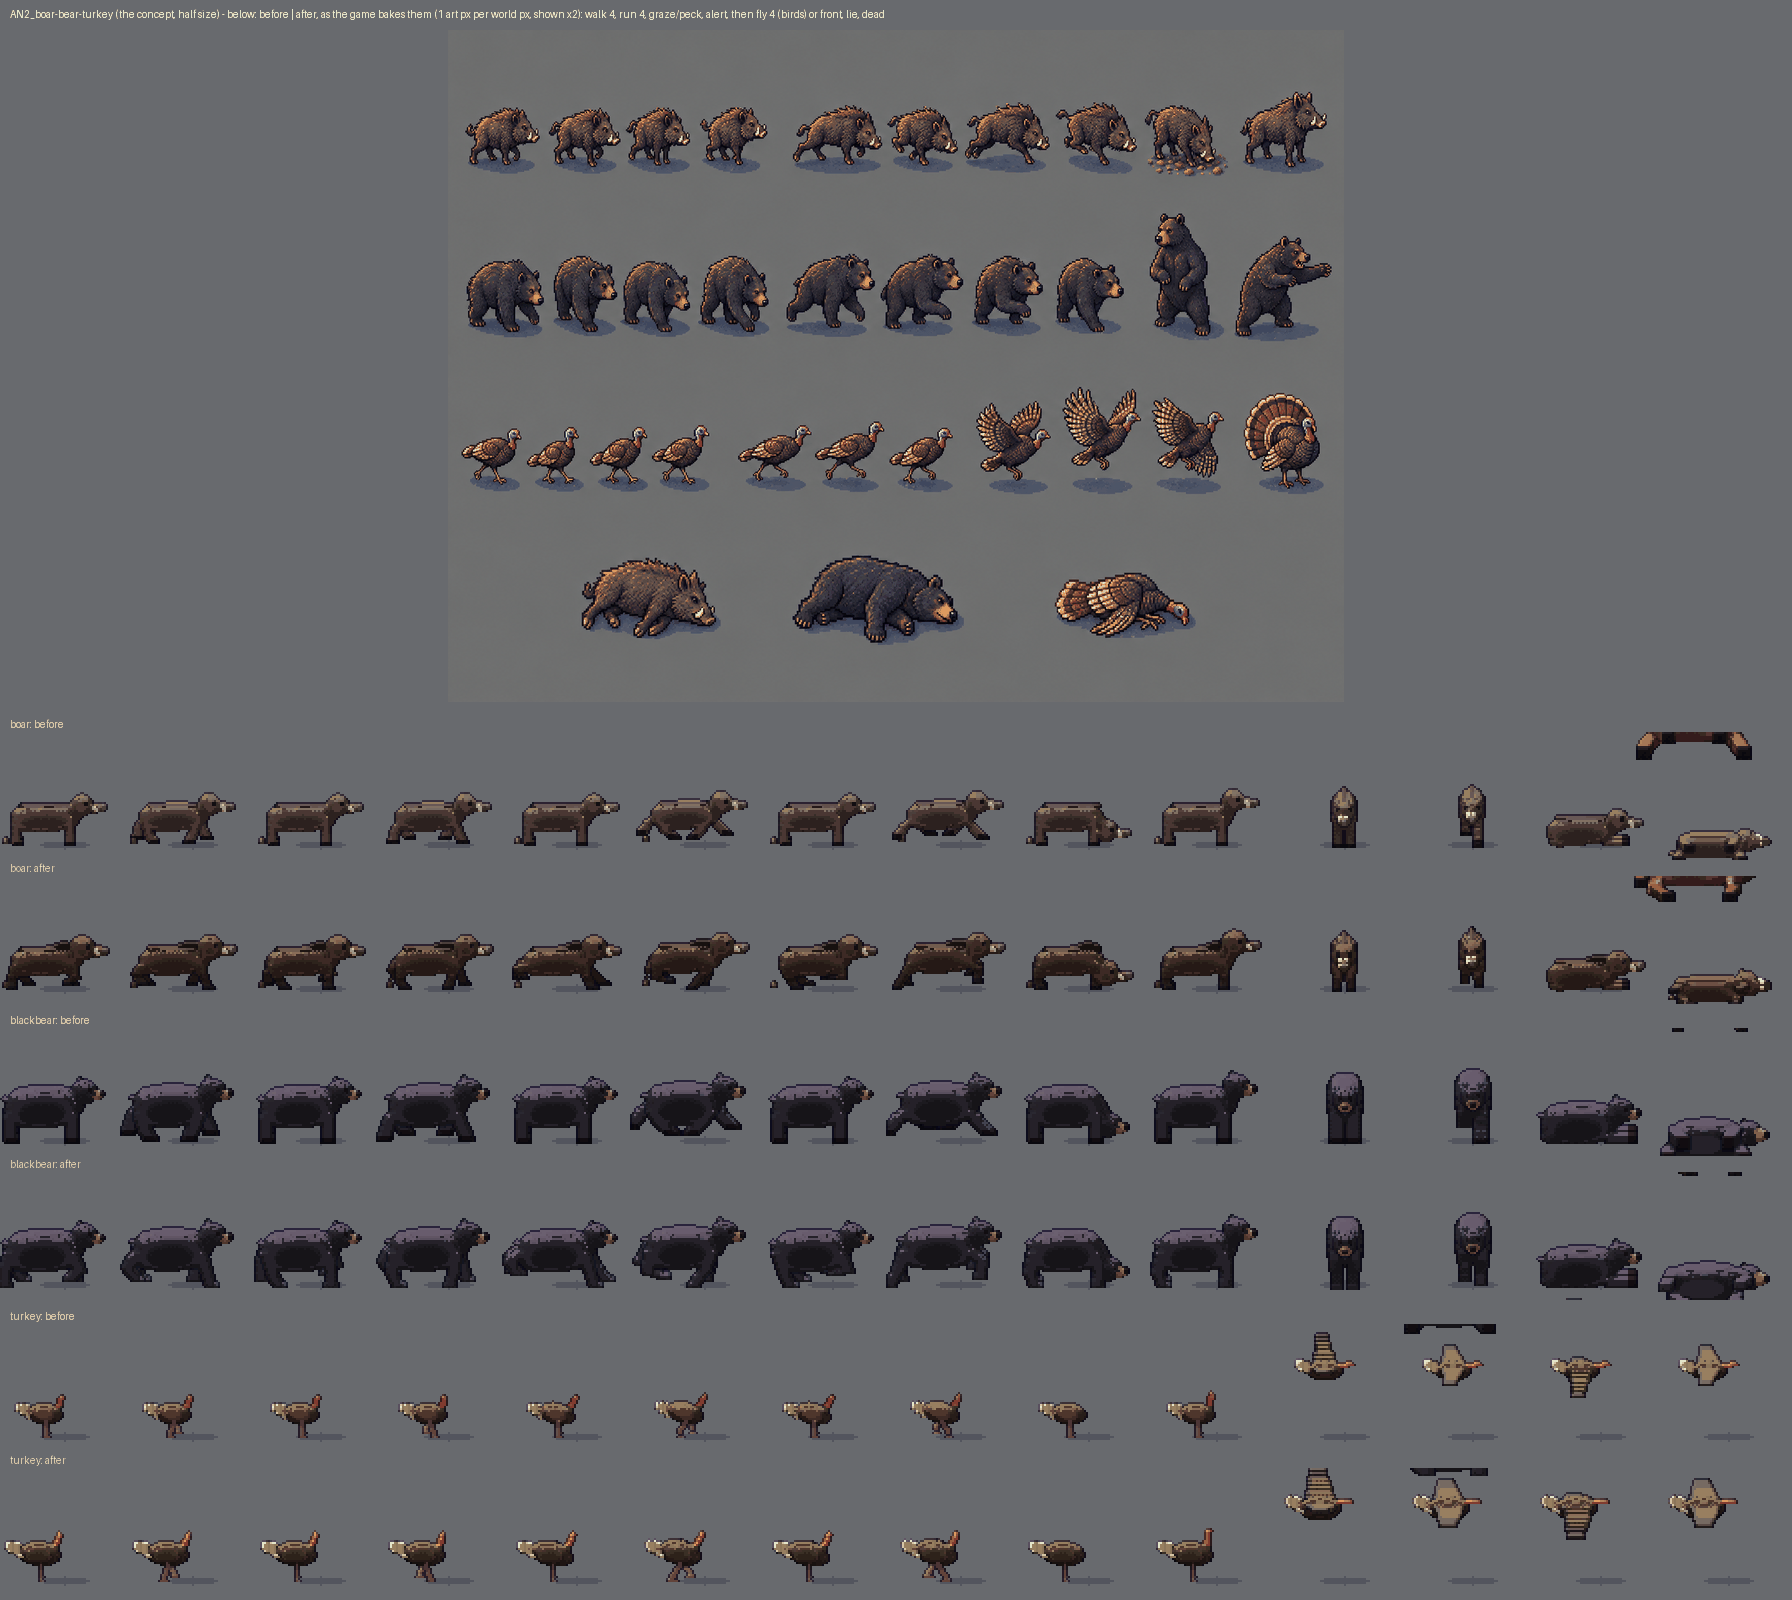
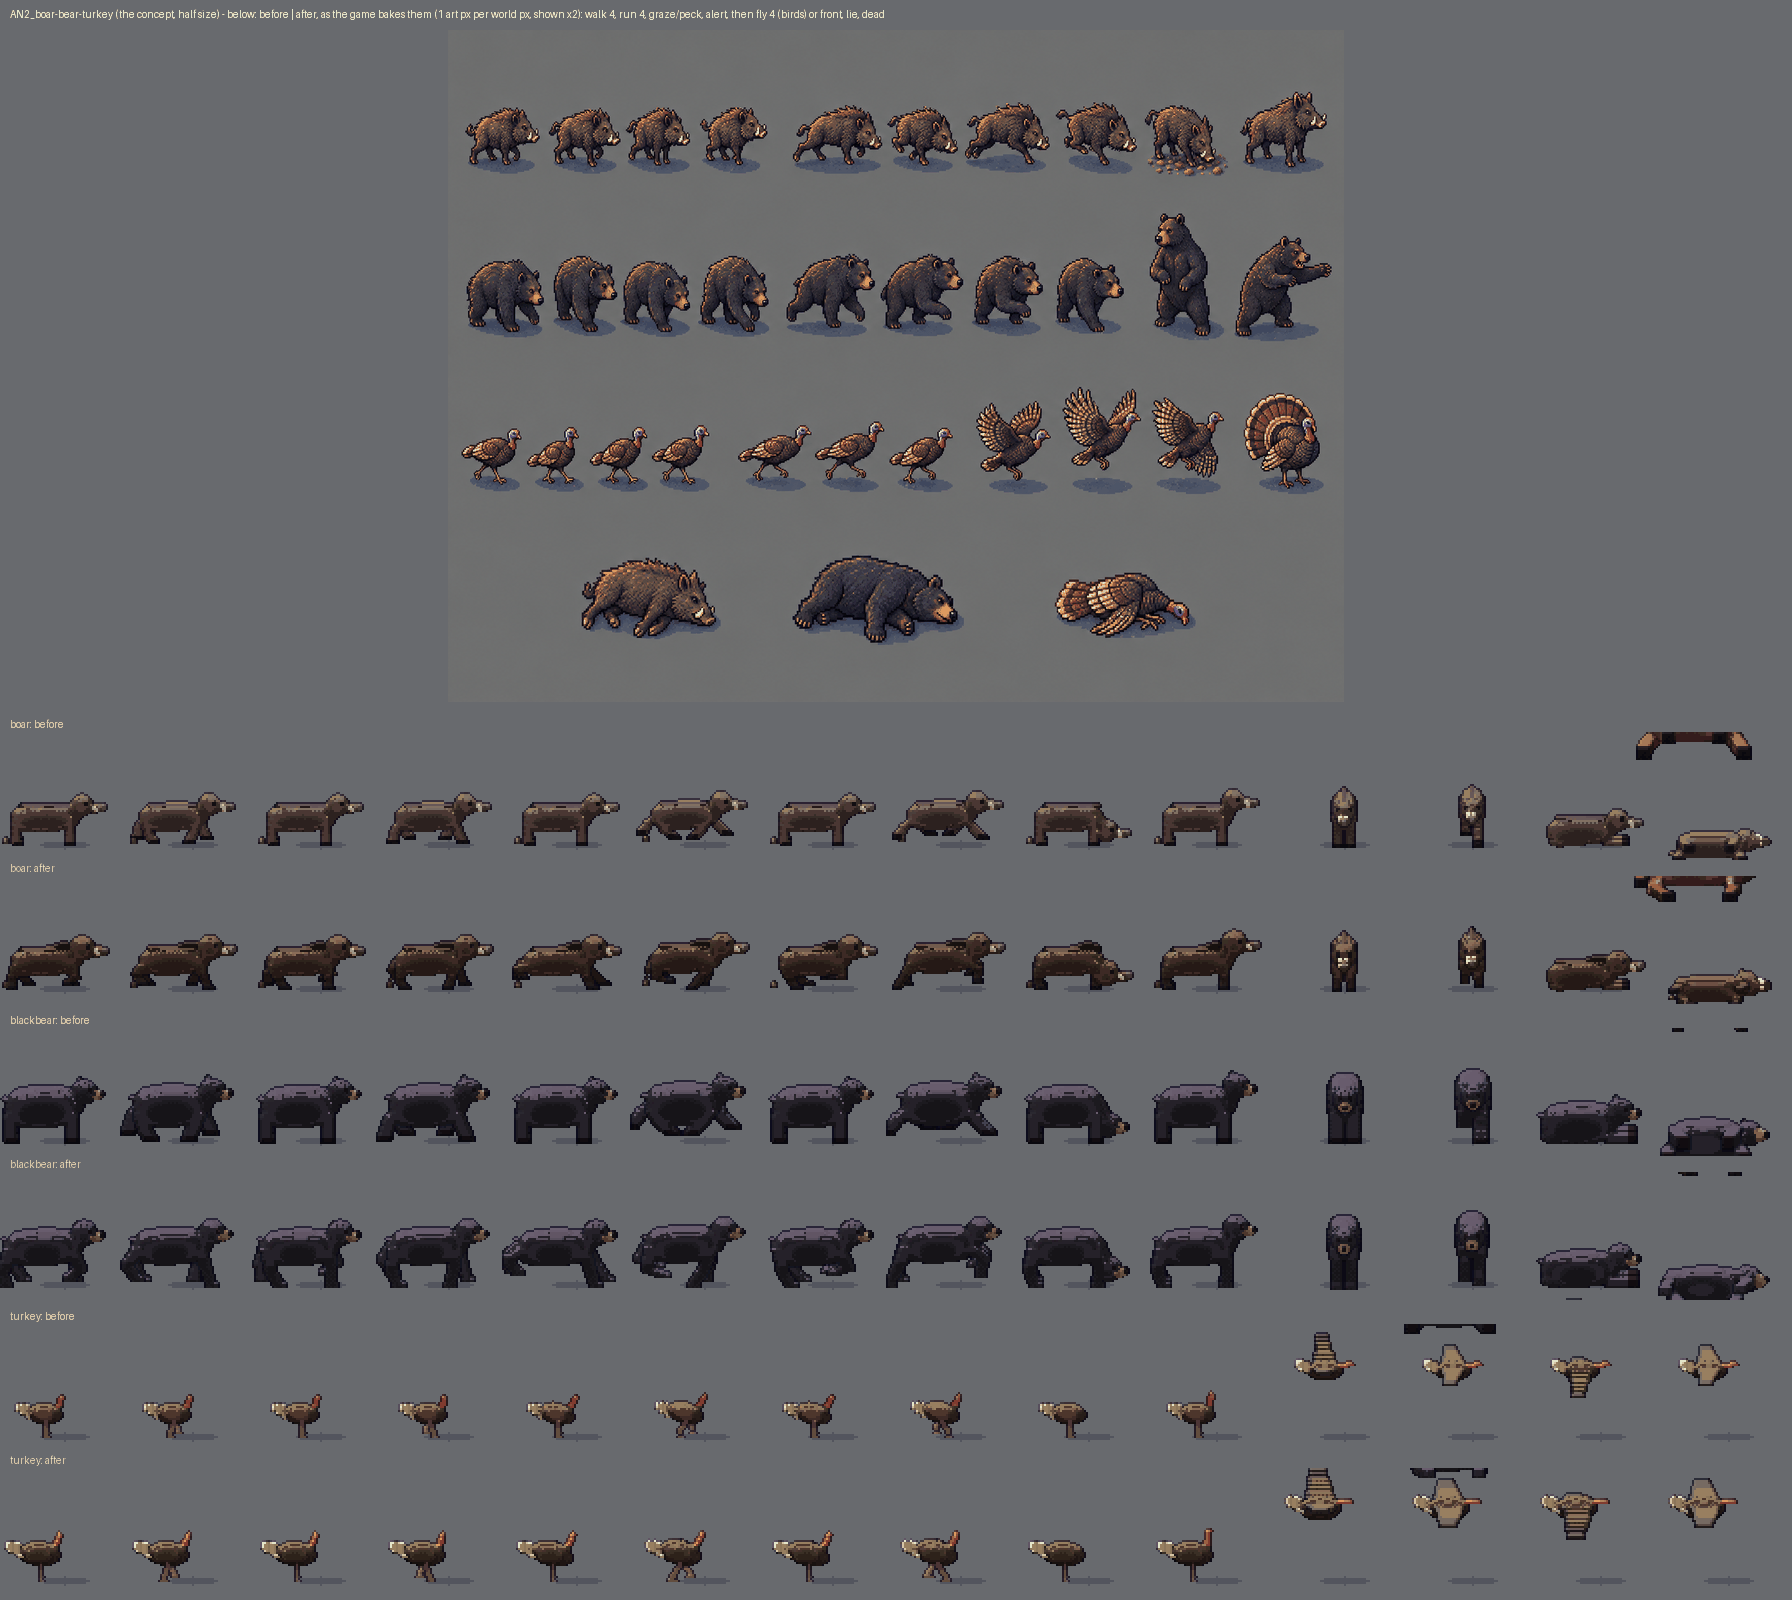
Animals: leaner, taller bears so their legs show (AN2, AN4)
Claude-Session: https://claude.ai/code/session_015TdwbASoLBxZr1VoEZGToX

diff --git a/client/art2/animals.js b/client/art2/animals.js
@@ -50,8 +50,8 @@ export const ANIMALS = {
   moose: { len: 50, h: 40, w: 15, coat: '#3e2c22', socks: '#a8988a', ears: 'side', tail: 'stub', snout: 9, head: 7, neck: 10, antlers: 3, hump: 1.4, bell: 1, droop: 1, jl: 1, lower: '#a8988a', hoof: 1 },
   mtgoat: { len: 28, h: 23, w: 11, coat: '#f2eee6', ears: 'side', tail: 'stub', snout: 4.5, head: 4.4, neck: 6, horns: 'black', beard: 1, fluffy: 1, hump: 0.8, socks: '#2a262c', jl: 1, lower: '#ece6da', hoof: 1 },
   boar: { len: 32, h: 19, w: 12, coat: '#4a3a2e', mane: '#241c18', ears: 'up', tail: 'thin', snout: 7, head: 6.4, nose: '#6a5a52', tusks: 1, jl: 1, lower: '#2e2420', hoof: 1, tips: '#6e5a48' },
-  blackbear: { len: 36, h: 24, w: 15, coat: '#2e2a32', muzzle: '#9a7a58', ears: 'round', tail: 'stub', snout: 4, head: 6.5, fluffy: 1, bear: 1, jl: 1 },
-  grizzly: { len: 44, h: 30, w: 18, coat: '#7a5634', muzzle: '#9a7650', tips: '#b89a70', ears: 'round', tail: 'stub', snout: 5, head: 7.5, fluffy: 1, bear: 1, hump: 1.5, jl: 1, lower: '#5a3e26' },
+  blackbear: { len: 36, h: 25, w: 13.5, coat: '#2e2a32', muzzle: '#9a7a58', ears: 'round', tail: 'stub', snout: 4, head: 6.5, fluffy: 1, bear: 1, jl: 1 },
+  grizzly: { len: 44, h: 31, w: 16.5, coat: '#7a5634', muzzle: '#9a7650', tips: '#b89a70', ears: 'round', tail: 'stub', snout: 5, head: 7.5, fluffy: 1, bear: 1, hump: 1.5, jl: 1, lower: '#5a3e26' },
   cougar: { len: 34, h: 18, w: 9, coat: '#c08a54', belly: '#ecdcc0', ears: 'cat', tail: 'longcat', tailTip: '#3a2a22', snout: 2.2, head: 4.6, cat: 1, jl: 1 },
   bobcat: { len: 22, h: 13, w: 8, coat: '#a8885e', patch: '#5a4632', pattern: 'spots', belly: '#e8dcc4', ears: 'tufted', tail: 'stub', snout: 1.6, head: 4, cat: 1, jl: 1 },
   redfox: { len: 20, h: 12, w: 6.5, coat: '#d0682a', belly: '#f2ece0', ears: 'up', tail: 'fox', tailTip: '#f4f0e8', snout: 4, head: 4, socks: '#2a2228', jl: 1, lower: '#2a2228' },

diff --git a/docs/DEVLOG.md b/docs/DEVLOG.md
@@ -5679,7 +5679,8 @@ and turkey, AN3 small game, AN8 quail): the rows are the game's own bake (actors
   - The deer: warmer brown, a white rump patch and throat, a dark nose, heavier antlers. The elk: paler, with the dark
     neck, head and shins of AN1 and a heavier rack.
   - A stalking cougar (or anything crouched) bends its legs instead of shortening them.
-  - The boar: darker, a bristle crest over the shoulders, grizzled.
+  - The boar: darker, a bigger head, a bristle crest over the shoulders, grizzled.
+  - The bears: leaner and a little taller, so the legs show under the body as in AN2 and AN4.
   - The coyote: grizzled along the back, a pale throat.
   - The rabbit: bigger haunches, and its run is a hop, up off the ground.
   - The wild ones' heads are true to life, not the pets' big-headed look (the rabbit keeps its big head).
